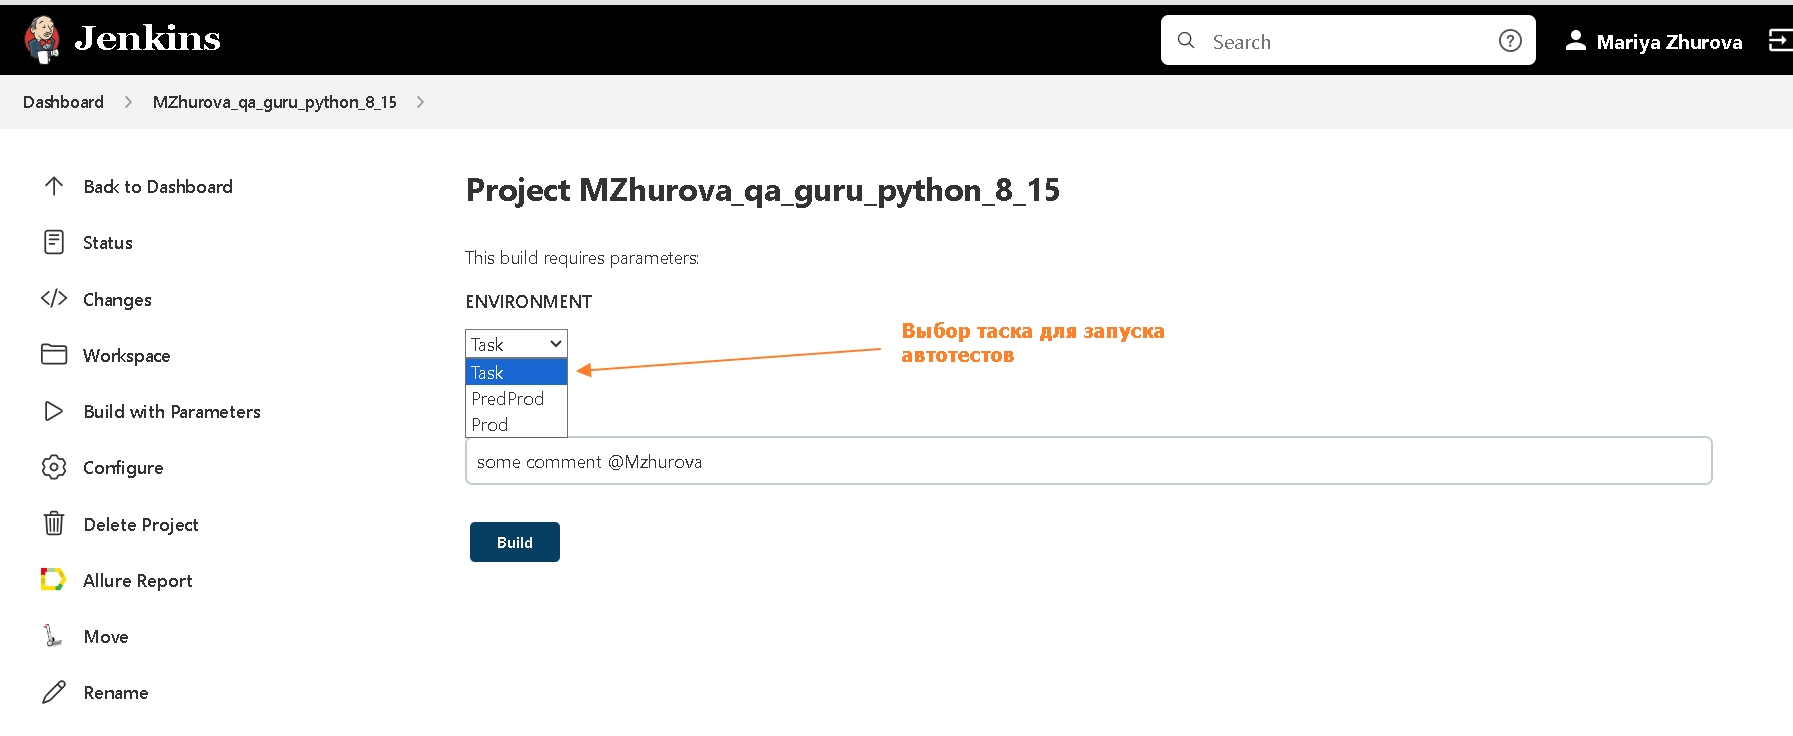
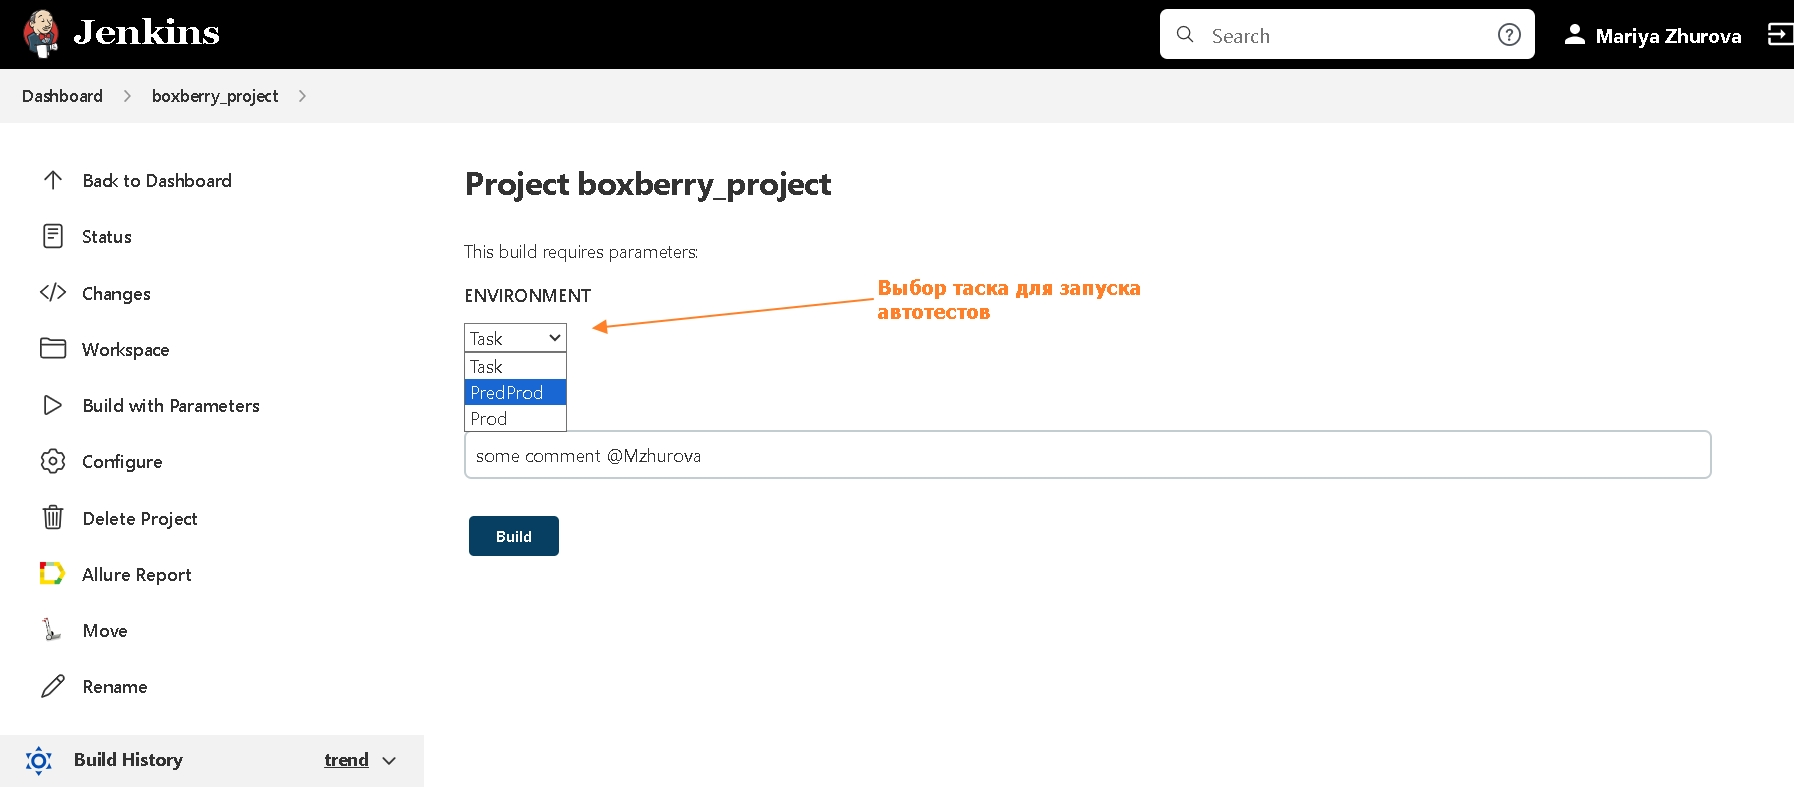
add

diff --git a/README.md b/README.md
@@ -83,7 +83,7 @@ allure serve build/allure-results
 > <a target="_blank" href="https://jenkins.autotests.cloud/job/boxberry_project/">Ссылка на проект</a>
 
 #### Запуск автотестов в Jenkins
-1. Открыть <a target="_blank" href="https://jenkins.autotests.cloud/job/MZhurova_qa_guru_python_8_15/">проект</a>
+1. Открыть <a target="_blank" href="https://jenkins.autotests.cloud/job/boxberry_project/">проект</a>
 
 ![jenkins project main page](design/images/jenkins.jpg)
 
